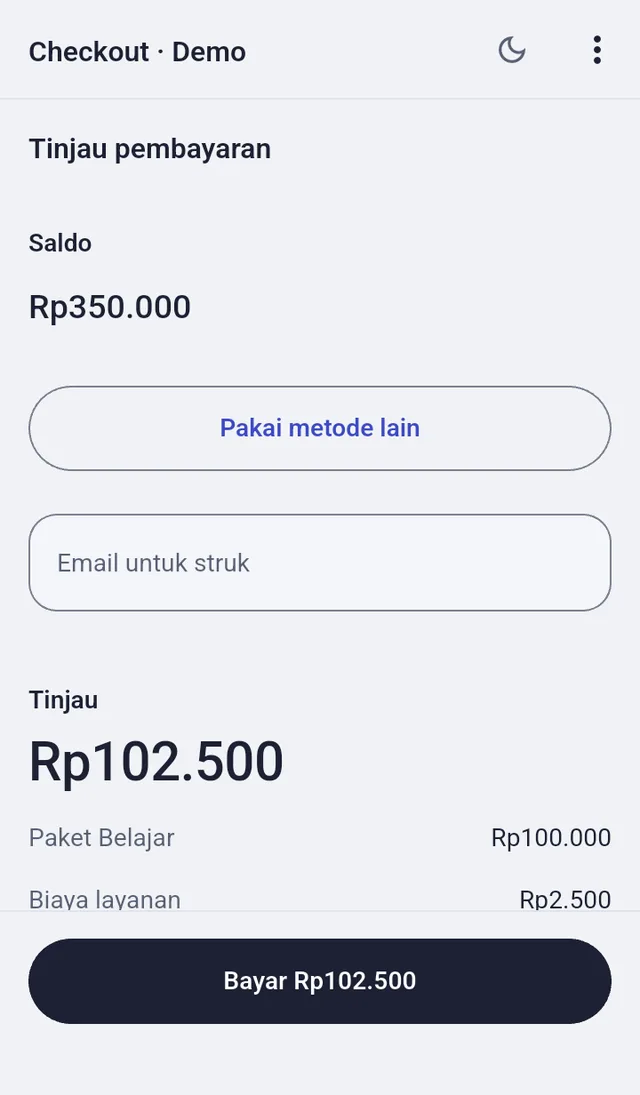
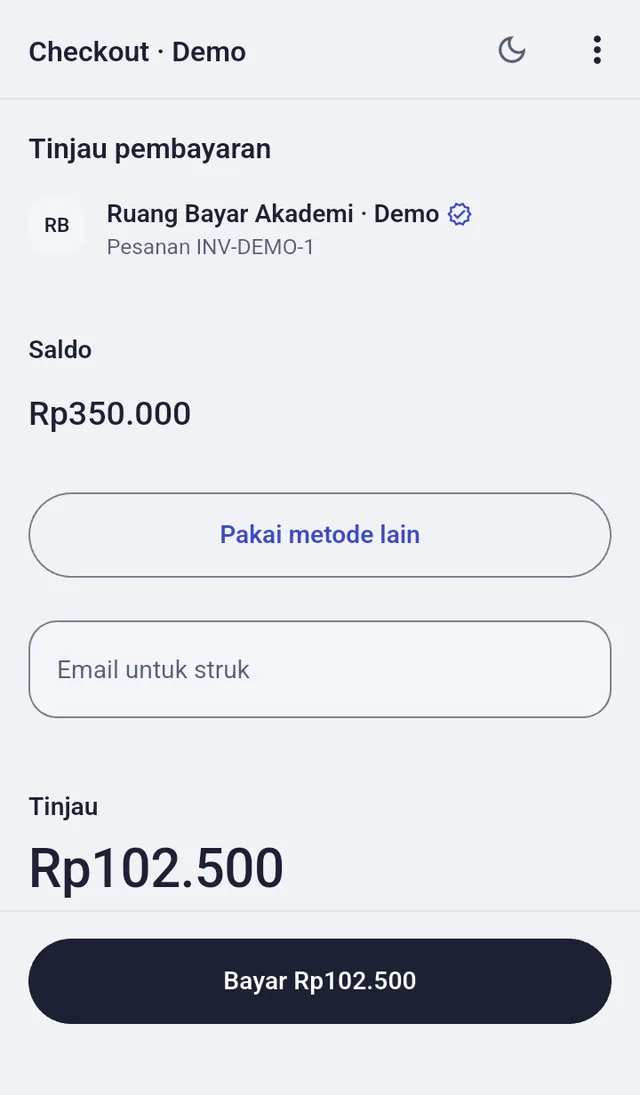
Show the merchant and order reference on wallet checkout

diff --git a/example/test/host_checkout_test.dart b/example/test/host_checkout_test.dart
@@ -76,8 +76,13 @@ Finder pay(int index) => find
     )
     .at(index);
 
+Finder walletMerchant() => find.descendant(
+  of: find.byType(WalletReviewCheckout),
+  matching: find.byType(MerchantHeader),
+);
+
 void main() {
-  testWidgets('merchant verification badge requires a host verdict', (
+  testWidgets('wallet names the payee and shows host verification', (
     tester,
   ) async {
     final actions = CheckoutActions(
@@ -87,6 +92,20 @@ void main() {
       onPay: () async {},
     );
     await tester.pumpWidget(host(actions));
+    expect(
+      find.descendant(
+        of: walletMerchant(),
+        matching: find.text(order.merchant),
+      ),
+      findsOneWidget,
+    );
+    expect(
+      find.descendant(
+        of: walletMerchant(),
+        matching: find.text('Order ${order.reference}'),
+      ),
+      findsOneWidget,
+    );
     expect(find.byIcon(Icons.verified_outlined), findsNothing);
     final verifiedOrder = CheckoutOrder(
       merchant: order.merchant,
@@ -99,7 +118,7 @@ void main() {
       merchantVerified: true,
     );
     await tester.pumpWidget(host(actions, data: verifiedOrder));
-    expect(find.byIcon(Icons.verified_outlined), findsOneWidget);
+    expect(find.byIcon(Icons.verified_outlined), findsNWidgets(2));
   });
   testWidgets(
     'both layouts show the product look and pay through the same host '
@@ -175,7 +194,7 @@ void main() {
     },
   );
 
-  testWidgets('at 320 dp and 200% text both pay actions stay reachable', (
+  testWidgets('payee and pay actions are reachable at 320 dp and 200%', (
     tester,
   ) async {
     tester.view.physicalSize = const Size(320, 640);
@@ -193,6 +212,16 @@ void main() {
         scale: 2,
       ),
     );
+    await tester.ensureVisible(walletMerchant());
+    await tester.pumpAndSettle();
+    for (final label in [order.merchant, 'Order ${order.reference}']) {
+      expect(
+        find
+            .descendant(of: walletMerchant(), matching: find.text(label))
+            .hitTestable(),
+        findsOneWidget,
+      );
+    }
     for (var i = 0; i < 2; i++) {
       await tester.ensureVisible(pay(i));
       await tester.pumpAndSettle();
@@ -202,5 +231,34 @@ void main() {
     }
     expect(pays, 2);
     expect(tester.takeException(), isNull);
+  });
+
+  testWidgets('tablet keeps the payee above the balance beside the review', (
+    tester,
+  ) async {
+    tester.view.physicalSize = const Size(1280, 800);
+    tester.view.devicePixelRatio = 1;
+    addTearDown(tester.view.reset);
+    await tester.pumpWidget(
+      host(
+        CheckoutActions(
+          onSelectMethod: (_) {},
+          onChangeMethod: () {},
+          onReceiptEmailChanged: (_) {},
+          onPay: () async {},
+        ),
+      ),
+    );
+    final merchant = tester.getRect(walletMerchant());
+    final balance = tester.getRect(find.byType(BalanceCard));
+    final review = tester.getRect(
+      find.descendant(
+        of: find.byType(WalletReviewCheckout),
+        matching: find.byType(PaymentSummary),
+      ),
+    );
+    expect(merchant.bottom, lessThan(balance.top));
+    expect(merchant.right, lessThan(review.left));
+    expect(review.top, inInclusiveRange(merchant.top, merchant.bottom));
   });
 }

diff --git a/example/lib/compositions/host_checkout.dart b/example/lib/compositions/host_checkout.dart
@@ -191,9 +191,9 @@ class InvoiceCheckout extends StatelessWidget {
   }
 }
 
-/// Layout two: a wallet review. Balance first, the review beside it on wide
-/// screens (under it on phones), and the total with the pay action in an
-/// action bar at the end.
+/// Layout two: a wallet review. The merchant and balance or selected method
+/// share a column, with the review beside it on wide screens or below it on
+/// phones. The total and pay action appear in an action bar at the end.
 class WalletReviewCheckout extends StatelessWidget {
   const WalletReviewCheckout({
     super.key,
@@ -221,6 +221,11 @@ class WalletReviewCheckout extends StatelessWidget {
       crossAxisAlignment: CrossAxisAlignment.stretch,
       spacing: gap,
       children: [
+        MerchantHeader(
+          name: order.merchant,
+          orderReference: order.reference,
+          verified: order.merchantVerified,
+        ),
         if (selectedMethod != null &&
             selectedMethod.kind != PaymentMethodKind.balance)
           PaymentSection(

diff --git a/docs/prd-foundation-components.md b/docs/prd-foundation-components.md
@@ -1774,7 +1774,7 @@ New in revision 3 (parity; for review):
 | D121 | **Docs site motion: press feedback, entrances, enter/exit.** This amends the motion clauses of D110 ("input-only motion under 200 ms") and D111 (the FAQ opens instantly). Every clickable element gets a press. Buttons, tiles and controls scale to 0.94–0.98; inline text links drop to 0.6 opacity. The press runs 120 ms ease-out (`cubic-bezier(0.23,1,0.32,1)`). Entrances: the landing hero enters with a staggered 360 ms fade and an 8 px rise; landing sections fade and rise 12 px once when scrolled into view, staggered 50 ms and capped at 300 ms; docs page content fades in over 220 ms. Overlays get enter and exit animations: the header menu, Starlight search and the phone sidebar take 180 ms in and 140 ms out. The FAQ answer fades in without height animation. Only opacity and transform are animated. The motion is gated by a pre-paint attribute that is set only when JavaScript runs and reduced motion is off, with a 2.5 s failsafe. Without JavaScript, or under reduced motion, all content is visible and still; turning reduced motion on mid-page stops motion at once and shows everything. Library: `motion` 14.6.0 (`animate`, `inView`) for the scroll reveal and the menu exit; everything else is CSS. No view transitions. No change to the package or its API. Owner request, 6 Nov 2026 (#284). | The site felt static. Short ease-out feedback on input and one-time entrances add responsiveness without delaying reading. The pre-paint gate keeps content visible without JavaScript, under reduced motion, and if the script fails. |
 | D122 | **Component pages drop mapping and ownership boilerplate.** Component docs pages have no `## Stripe → kit` section or other Stripe prop-mapping table, no `## Used in` section, no internal example-scenario codes (H01–H04, A01–A05, K01, P12) or `Example source:` paths, and no "The host owns" callout (the `HostOwns` component is removed). Useful behavior from those sections moves into a `## Behavior` section or the section it belongs to; example-app captures stay under `## In the example app`. Component-specific contracts stay as plain prose: amount text never rounds or converts, a countdown at zero is not proof of non-payment, the media controller is host-disposed, the privacy mask does not stop OS screen capture, and the status header never infers status. The button's repeated-tap lock and the backend's duplicate-payment duty are explained once, in the payment attempt guide. Pattern pages state their integration needs as plain sentences. `check-pages` no longer requires the removed sections and fails a component page whose prose brings them back. Public dartdoc in `lib/` names no Stripe equivalents either, so the generated API tables on those pages carry none. The §6 Stripe mapping in this PRD, the components overview's Stripe name column and "Not in the kit" stay. Amends the component page list in §10 and the B13 evidence. Owner request, 6 Nov 2026 (#293). | The tables mostly said "Semantic kit value" and the scenario codes and ownership callouts meant nothing to a developer reading one page; they hid the behavior and API people came for. One clear explanation of duplicate payments is easier to find and keep correct than a warning on every page. |
 | D123 | **Deprecated names stay through 0.2.0; removal moves to 0.3.0 (amends D34, §9.6 and §12).** The names deprecated in 0.1.0 under D34 and the D28 amendment (`StatusBadge`, `NoticeBanner`, `ActionTile`/`ActionTileGroup`, `ActionMenu`/`ActionMenuEntry`, `AmountInput`, `ExpandableSection`, `showPaymentSnackBar`, `PaymentFullPageView.pageAction`, `PaymentSignInView.learnMore`/`footnote`, `AmountText.emphasis`, `PaymentAccordionItem.leading`, `amountStyle(large:)`, the DataTable reorder/resize flags and callback, and the five unused DataTable strings) remain deprecated and compiling in 0.2.0 and are removed in 0.3.0. Deprecation messages and docs say "Removed in 0.3.0". 0.2.0 still removes the exported `KitStrings` and `PaymentStatusLabel` extension names (D115), documented as breaking with a migration to instance calls. Owner decision, 6 Nov 2026 (#297). | 0.2.0 ships the merged `main` behavior without new runtime changes; removing the deprecated names in the same release would add a second migration that hosts did not ask for. One more minor release keeps the D34 window honest. |
-| D124 | **Checkout showcase: one copyable checkout in two host-owned designs with replayable motion (#301).** `HostCheckoutJourney` gains `layout` (`CheckoutLayout.invoice` default, `CheckoutLayout.wallet`) and an optional `onChangeMethod`; `CheckoutOrder` gains host-owned `quoting`; `WalletReviewCheckout` gains `showActionBar` (default true) so a host that pins its own action renders no second one. Both layouts share one `CheckoutOrder`, `CheckoutActions`, quote, selected method, pay callback and the same-attempt recovery journey. The wallet look's "use another method" opens a kit `showPaymentSheet` with `PaymentMethodPicker` when no override is given. Pay stays disabled while `quoting`, and `_canPay`/`_submit` revalidate a current, unexpired quote whose `methodId` matches an available selected method. The runnable demo pairs invoice with Hairline and wallet with Soft, adds a bank-VA method with its own asynchronous quote, a demo menu for look/scenario/replay/reduced-motion, and a request-generation guard so only the newest quote answer applies. Example compositions only; no `lib/` API change, and the pinned `PaymentFullPageView` action stays the only pay control in both looks. Issue #301, 19 Nov 2026. | The issue asks for one copyable checkout proving two designs share model, callbacks and recovery. Keeping quote state and method choice host-owned (B11) and reusing the kit sheet and status motion demonstrates adoption without a new runtime layer; the request guard mirrors the method-quote demo's latest-wins rule for interrupted quotes. |
+| D124 | **Checkout showcase: one copyable checkout in two host-owned designs with replayable motion (#301).** `HostCheckoutJourney` gains `layout` (`CheckoutLayout.invoice` default, `CheckoutLayout.wallet`) and an optional `onChangeMethod`; `CheckoutOrder` gains host-owned `quoting`; `WalletReviewCheckout` gains `showActionBar` (default true) so a host that pins its own action renders no second one. Both layouts share one `CheckoutOrder`, `CheckoutActions`, quote, selected method, pay callback and the same-attempt recovery journey. The wallet look's "use another method" opens a kit `showPaymentSheet` with `PaymentMethodPicker` when no override is given. Pay stays disabled while `quoting`, and `_canPay`/`_submit` revalidate a current, unexpired quote whose `methodId` matches an available selected method. The runnable demo pairs invoice with Hairline and wallet with Soft, adds a bank-VA method with its own asynchronous quote, a demo menu for look/scenario/replay/reduced-motion, and a request-generation guard so only the newest quote answer applies. Example compositions only; no `lib/` API change, and the pinned `PaymentFullPageView` action stays the only pay control in both looks. Issue #301, 19 Nov 2026. In both layouts, `MerchantHeader` shows the host merchant, order reference and verification verdict. The wallet header stays in the wallet column above the balance or selected method (#324). | The issue asks for one copyable checkout proving two designs share model, callbacks and recovery. Keeping quote state and method choice host-owned (B11) and reusing the kit sheet and status motion demonstrates adoption without a new runtime layer; the request guard mirrors the method-quote demo's latest-wins rule for interrupted quotes. |
 | D125 | **`AuthorizationPrompt` phase changes use the shared status swap.** The prompt's status slot — plain title and message for ready, in progress and approved, the tinted banner for canceled, failed and expired — swaps through the same full-width fade and eased height as the payment status views, keyed on the phase so a same-phase rebuild stays still and nothing plays on first build. The host header, amount and the action rules stay outside the swap and update at once, including the busy state and pinned placement. The entering phase is readable on the first frame; the leaving one is already out of semantics, focus and taps. Under reduced motion, under either flag, the swap ends at once, including mid-swap (D66, D94). The motion is the existing enter/exit fades and the `easeInOut` height ease; no new tokens, scale or spring (D69, D74, D75). (#303) | A host-driven phase change was an instant cut between a plain status and a banner on the one screen where the customer decides whether to approve. The handoff is occasional, so the shared fade is enough; the actions must stay immediate because they carry the customer's next step. |
 | D126 | **Accordion reversal keeps the displayed velocity.** `PaymentAccordionItem` drives its reveal with one `AnimationController` whose value is the displayed height-and-fade progress; the `CurvedAnimation` layer is gone, so no second easing sits on top. From rest the motion is unchanged: `easeOut` at `enter` going in, the flipped `easeOut` at `exit` going out, now applied to the displayed value directly. Interrupting a running reveal reverses through a private, critically damped `SpringSimulation` (`SpringDescription.withDurationAndBounce` with `bounce: 0`, the matching `enter` or `exit` duration, `snapToEnd: true`) seeded from the controller's value and velocity in displayed units per second, run through `animateWith`/`animateBackWith`. The simulation uses the SDK fling tolerance — position within 0.01, velocity unconstrained — so the ticker stops when the residual is already invisible instead of trailing an asymptotic tail. No spring token, no public API, no dependency; D75 still governs shared tokens and sheets. Reduced motion under both flags, focus/semantics/pointer exclusion while closing, content retention until dismissed, latest-intent retargeting and first-render stillness are unchanged. Widget-sampled trajectory: before, a reopen frame jumped +0.29 displayed progress after a −0.41 frame; after, the first frame keeps a −0.018 step and the turn decays through zero over about three frames, settling inside the same sub-300 ms budget (simulation `isDone` ≈ 146–255 ms by direction and entry velocity). Issue #305, 19 Nov 2026. | Reversing a `CurvedAnimation` restarts the curve at the new target, so the visible speed flipped sign inside one frame and the reveal read as hitting a wall. Carrying the physical velocity through a bounded critical spring makes the turn one continuous movement; keeping it private preserves D75's shared-token rule. |
 | D127 | **The shared radio mark eases its selected handoff.** The internal `RadioMark` behind `PaymentRadio` and `PaymentMethodPicker` animates only the selected transition: the ring's 1.5 → 6 dp stroke and interpolable colors ease over `quick` (150 ms) on `easeOut`, retargeting from the value on screen so rapid changes reverse inside the fixed 20 dp box. Checked semantics, the quote selection and callbacks stay synchronous; keyboard-driven selection (traditional highlight mode) and reduced motion under either flag, including a flag flipped mid-transition, land on the final look at once. No first-mount animation, no layout shift, no new token or public API (#307). | The mark jumped between strokes, so selection felt abrupt; a short ease-out on the one shared mark gives every radio row and method tile the same responsive feedback while state, geometry and host ownership stay exactly as they were. |

diff --git a/docs/decisions.md b/docs/decisions.md
@@ -917,6 +917,11 @@ The 320 dp gesture rows were measured with the tab fold alone (+18.2 / +30.2 dp 
 
   The issue asks for one copyable checkout proving two designs share model, callbacks and recovery. Keeping quote state and method choice host-owned (B11) and reusing the kit sheet and status motion demonstrates adoption without a new runtime layer; the request guard mirrors the method-quote demo's latest-wins rule for interrupted quotes. Rejected: a `PaymentActionBar` inside the wallet review for this showcase, because the pinned `PaymentFullPageView` footer already carries the action in both looks and duplicating it would double the pay control; `showActionBar` stays available for hosts that want the bar's own layout.
 
+  Follow-up (#324): Both layouts show the host's merchant name, order reference
+  and verification status via `MerchantHeader`. The wallet header sits above
+  the balance or selected method in the wallet column, including on wide
+  screens where the order summary sits alongside it.
+
 ### Authorization phase motion, 19 November 2026
 
 - **D125: `AuthorizationPrompt` phase changes use the shared status swap (#303).** The prompt's status slot — plain title and message for ready, in progress and approved, the tinted banner for canceled, failed and expired — now swaps through the kit's full-width fade and eased height, keyed on the phase so a same-phase rebuild stays still and nothing plays on first build. The host header, amount and the action rules stay outside the swap and update at once, including the busy state and pinned placement. The entering phase is readable on the first frame; the leaving one is already out of semantics, focus and taps (D94). Under reduced motion, under either flag, the swap ends at once, including mid-swap (D66). The motion is the existing enter/exit fades and the `easeInOut` height ease; no new tokens, scale or spring (D69, D74, D75). D123 and D124 were already claimed by open work, so this is D125.
